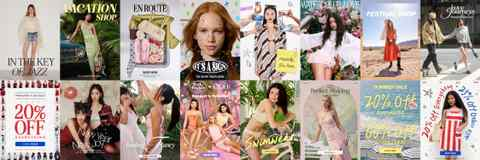
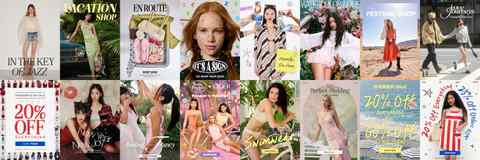
edited lightbox

diff --git a/detail/cider-global-fashion-brand-identity-visual-system.html b/detail/cider-global-fashion-brand-identity-visual-system.html
@@ -41,7 +41,7 @@
 <div id="main">
     <h1 id="project-title">Loading...</h1>
     <p class="tag-detail" id="project-category">Loading...</p>
-    <img data-image-original="../images/cd-graphics-1.jpg" width="4500" height="1500" />
+    <img data-image-original="../images/cd-graphics-1.jpg" width="3000" height="1000" />
     <h3>“We make everyday statement pieces for everyone, everywhere.”</h3>
     <img data-image-original="../images/cd-logo.png" class="img-size-xs" width="800" height="200" />
     <p class="center" style="margin-top:0;">We worked with Cider as it grew from a young digital fashion brand into a global name. Founded in 2020, the brand built a strong following among Gen Z through trend-driven, accessible clothing and an unusually active social presence. Its promise was simple: make everyday statement pieces for everyone, everywhere.
@@ -52,6 +52,7 @@
     <img data-image-original="../images/cd-giftcards.jpg" class="img-size-s" width="2720" height="1232" />
     <p>Our challenge was not to remove that personality, but to give it a clearer point of view. We wanted Cider to stay playful and inclusive while feeling more considered, so the brand could grow beyond a collection of campaigns and become a world people could recognize at a glance.</p>
     <img data-image-original="../images/cd-crest-pillars.png" class="img-size-s" width="2561" height="1664" />
+    <img data-image-original="../images/cd-graphics-2.jpg" width="3000" height="1000" />
     <p>We began by aligning the visual system, the brand voice, and the way Cider talked about its values. This meant editing as much as adding: creating a stronger hierarchy, reducing visual noise, and making sustainability part of the conversation without turning it into a separate layer of messaging.</p>
     <img data-image-original="../images/cd-fonts.png" class="img-size-s" width="3564" height="1472" />
     <p>Cider began growing during a period when digital fashion communities were forming quickly and new ideas could travel overnight. As the brand expanded, its story became more complicated and harder to hold together. To welcome more people into the Cider world—not only its earliest Gen Z audience—we needed to make the identity easier to understand and easier to extend.</p>
@@ -60,8 +61,8 @@
     <img data-image-original="../images/cd-colors.png" class="img-size-s" width="2580" height="924" />
     <p>We established a more disciplined visual language around typography, color, and layout. Colors could still shift with the mood of a collection, but they now had a clear role; type and spacing created continuity; and those decisions carried into UI and UX so the brand felt like the same Cider wherever people encountered it.</p>
     <div class="cider-split-hero">
-      <img data-image-original="../images/cd-hero-design-before.jpg" width="3375" height="2250" />
-      <img data-image-original="../images/cd-hero-design-after.jpg" width="3375" height="2250" />
+      <img data-image-original="../images/cd-hero-design-before.jpg" class="lightbox-img" width="3375" height="2250" />
+      <img data-image-original="../images/cd-hero-design-after.jpg" class="lightbox-img" width="3375" height="2250" />
     </div>
     <p>These before-and-after views show the shift most clearly. The earlier work had plenty of charm, but each campaign often invented its own visual rules. After the refresh, the work could remain expressive while sharing a stronger underlying structure. That consistency made the brand easier to recognize and gave our team more room to explore without losing the thread.</p>
     <p>Our team worked across brand design, visual direction, product materials, and the full <a href="cider-fashion-e-commerce-ux-with-ai-driven-visual-production.html" target="_self">UI and UX experience</a>. We treated these as connected parts of the same system: visual decisions shaped how the product felt, while user behavior helped us understand where the identity needed to be clearer or more flexible. The result was not a single look applied everywhere, but a common set of decisions that made the brand more coherent and the digital experience easier to navigate.</p>
@@ -77,6 +78,13 @@
     <img data-image-original="../images/cd-cart.png" class="img-size-s" width="1600" height="400" />
 </div>
 <div data-site-include="footer"></div>
+<!-- lightbox -->
+<div id="lightbox-overlay">
+  <span id="lightbox-close">&times;</span>
+  <img src="">
+</div>
+<script src="../lightbox.js"></script>
+<!-- lightbox -->
   <script src="../common.js"></script>
   <script src="../detail.js"></script>
 </body>

diff --git a/lightbox.js b/lightbox.js
@@ -11,14 +11,25 @@ if (overlay.parentNode !== document.documentElement) {
 const enableLightbox = window.innerWidth > 600;
 
 if (enableLightbox) {
-  document.querySelectorAll(".lightbox-img").forEach(img => {
+  const lightboxItems = Array.from(document.querySelectorAll(".lightbox-img"));
+  let currentIndex = -1;
+
+  function openLightbox(index) {
+    const img = lightboxItems[index];
+    if (!img) return;
+
+    if (window.promoteImage) window.promoteImage(img);
+    lightboxImg.src = img.dataset.imageFinalSrc || img.currentSrc || img.src || img.dataset.imageOriginal;
+    lightboxImg.onerror = () => {
+      const fallback = img.dataset.imageFallbackSrc || img.currentSrc || img.src || img.dataset.imageOriginal;
+      if (lightboxImg.src !== fallback) lightboxImg.src = fallback;
+    };
+    currentIndex = index;
+  }
+
+  lightboxItems.forEach((img, index) => {
     img.addEventListener("click", () => {
-      if (window.promoteImage) window.promoteImage(img);
-      lightboxImg.src = img.dataset.imageFinalSrc || img.currentSrc || img.src || img.dataset.imageOriginal;
-      lightboxImg.onerror = () => {
-        const fallback = img.dataset.imageFallbackSrc || img.currentSrc || img.src || img.dataset.imageOriginal;
-        if (lightboxImg.src !== fallback) lightboxImg.src = fallback;
-      };
+      openLightbox(index);
       overlay.style.display = "flex";
 
       // 强制触发 reflow 让动画生效
@@ -28,8 +39,16 @@ if (enableLightbox) {
     });
   });
 
+  function changeLightboxImage(step) {
+    if (lightboxItems.length < 2) return;
+
+    const nextIndex = (currentIndex + step + lightboxItems.length) % lightboxItems.length;
+    openLightbox(nextIndex);
+  }
+
   function closeLightbox() {
     overlay.classList.remove("show");
+    currentIndex = -1;
     setTimeout(() => {
       overlay.style.display = "none";
     }, 300);
@@ -39,6 +58,21 @@ if (enableLightbox) {
 
   overlay.addEventListener("click", (e) => {
     if (e.target === overlay) {
+      closeLightbox();
+    }
+  });
+
+  document.addEventListener("keydown", (e) => {
+    if (!overlay.classList.contains("show")) return;
+
+    if (e.key === "ArrowLeft") {
+      e.preventDefault();
+      changeLightboxImage(-1);
+    } else if (e.key === "ArrowRight") {
+      e.preventDefault();
+      changeLightboxImage(1);
+    } else if (e.key === "Escape") {
+      e.preventDefault();
       closeLightbox();
     }
   });

diff --git a/detail/cider-fashion-e-commerce-ux-with-ai-driven-visual-production.html b/detail/cider-fashion-e-commerce-ux-with-ai-driven-visual-production.html
@@ -30,6 +30,7 @@
 @media (max-width: 1200px) {
   .cider-v3-pair {
     grid-template-columns: 1fr;
+    padding: 0 20px;
   }
 }
 </style>
@@ -44,8 +45,8 @@
       Founded in 2020, <b>Cider</b> grew into a global fashion e-commerce brand for Gen Z shoppers. As the product scaled, our team worked across product strategy, UX, and visual design to bring the brand’s expressive character into an experience that still makes browsing and buying clear. We approached the app as more than a storefront: it needed to support discovery, merchandising, and the relationship with customers beyond checkout.
     </p>
  <div class="cider-v3-pair">
-      <img data-image-original="../images/cd-v3-1.jpg" width="4150" height="2160" />
-      <img data-image-original="../images/cd-v3-2.jpg" width="4150" height="2160" />
+      <img data-image-original="../images/cd-v3-1.jpg" class="lightbox-img" width="4150" height="2160" />
+      <img data-image-original="../images/cd-v3-2.jpg" class="lightbox-img" width="4150" height="2160" />
     </div>
     <h2>Four Evolutions, One Home Experience</h2>
     <p>Across four iterations, the home experience evolved to balance Cider’s visual expression with the merchandising team’s need to feature timely stories and customers’ need to find relevant products. The merchandising area became shorter, personalized content moved higher on the page, and modules grew more flexible. The most focused version centered on one video-led story, with a product grid leading directly into shopping.</p>
@@ -100,6 +101,13 @@
       <p>These trials let us test ideas earlier, from previewing patterns before samples existed to replacing backgrounds and exploring virtual try-on. We found the tools most useful when they shortened a specific feedback loop and left the team in control of the final result. That remains our standard for bringing new technology into content production and customer experience.</p>
     </div>
 <div data-site-include="footer"></div>
+<!-- lightbox -->
+<div id="lightbox-overlay">
+  <span id="lightbox-close">&times;</span>
+  <img src="">
+</div>
+<script src="../lightbox.js"></script>
+<!-- lightbox -->
   <script src="../common.js"></script>
   <script src="../detail.js"></script>
 </body>
